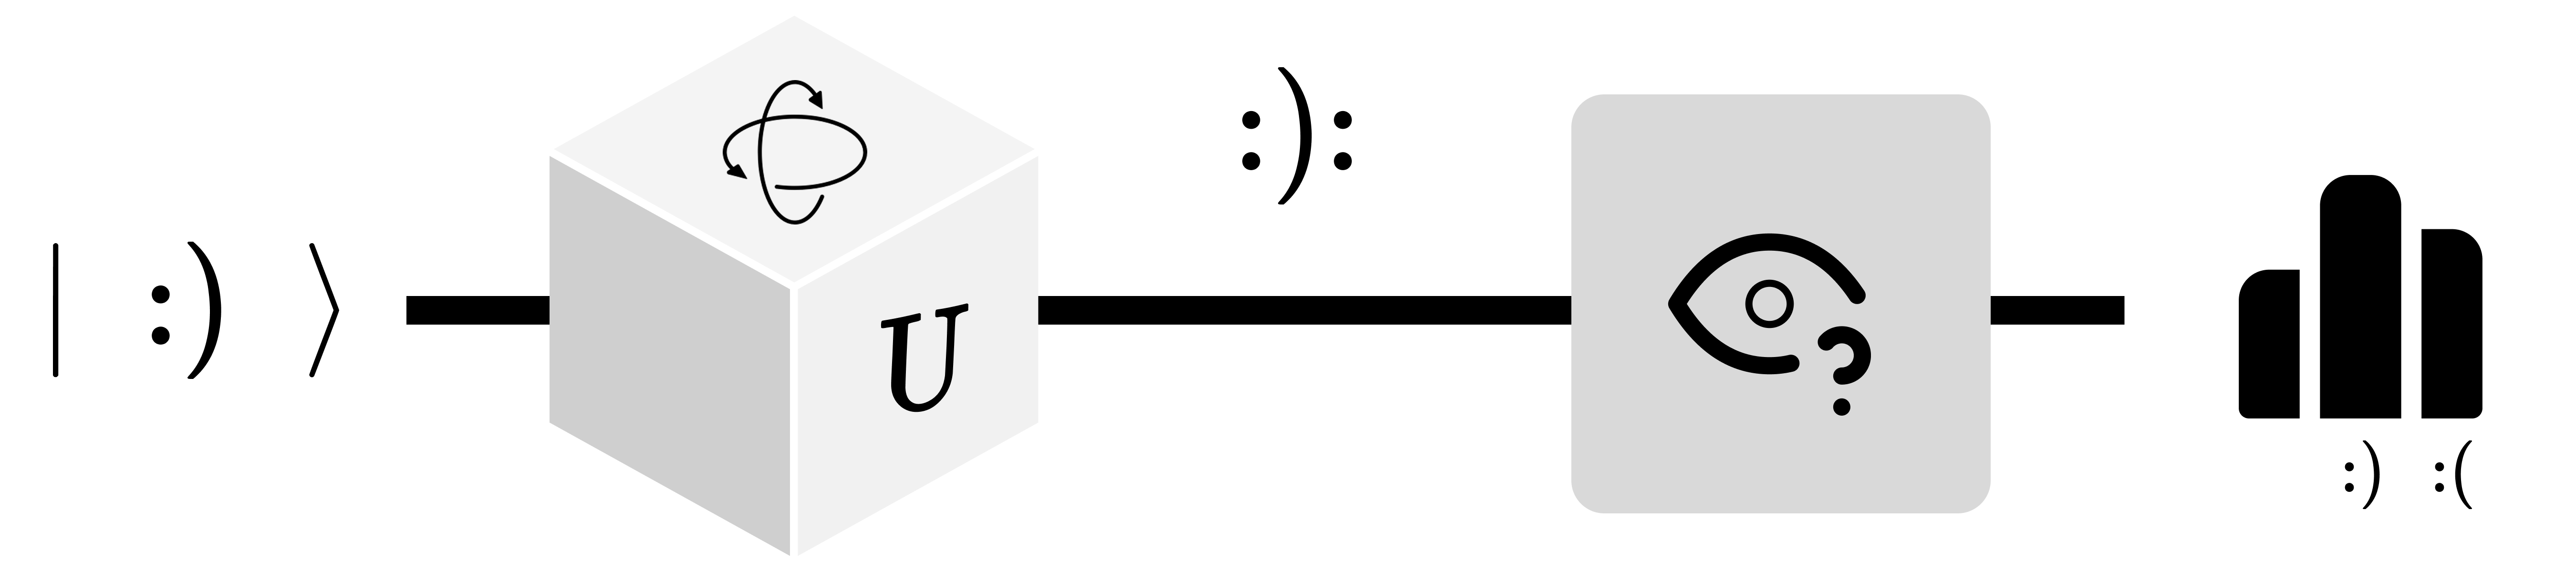
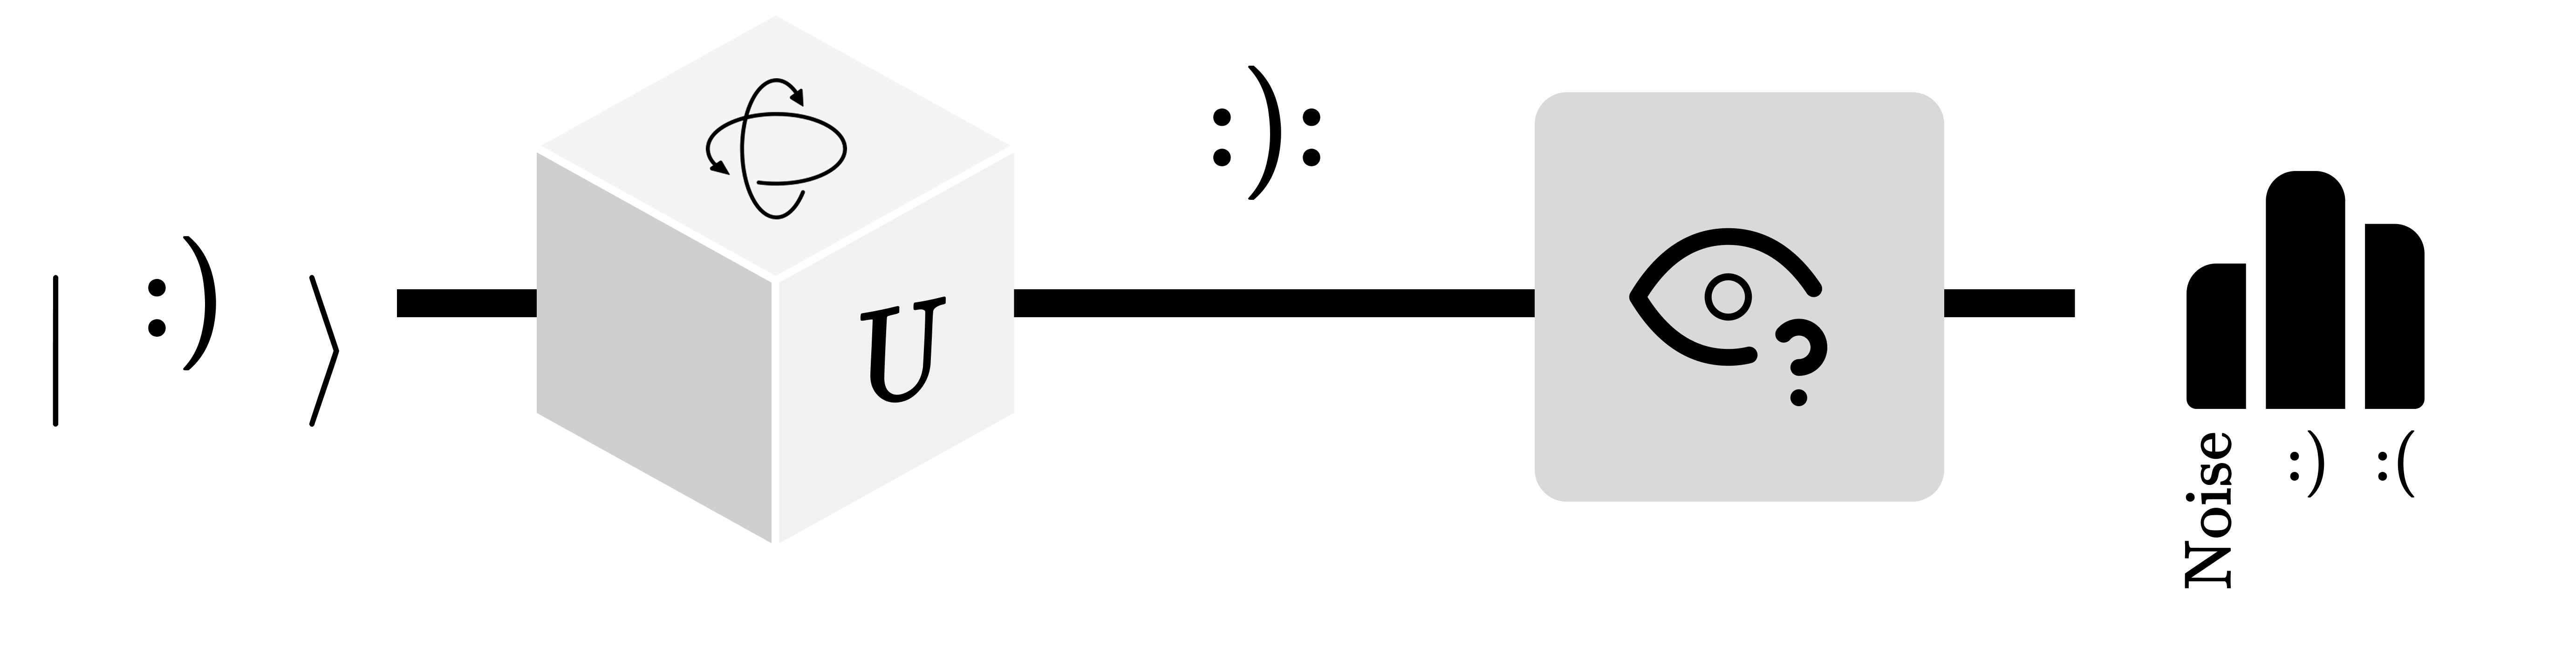
Add internship proposal document and update proposal slides
This commit introduces a new LaTeX document for the internship research proposal, detailing objectives related to the Differential Success Rate and a quantum algorithm monitoring dashboard. Additionally, the proposal slides are updated to include a hidden section on quantum computing, enhancing the overall presentation structure. The content in the slides is refined to reflect the inclusion of IonQ in the machine learning model validation. These changes aim to provide a comprehensive overview of the research objectives and improve the clarity of the presentation.

diff --git a/docs/slides/proposal/index.html b/docs/slides/proposal/index.html
@@ -54,7 +54,7 @@
 				<!-- SECTION 1: QUANTUM COMPUTING                                 -->
 				<!-- ============================================================ -->
 				<section data-section="Quick introduction" data-section-color="#6366f1" data-include="slides/01-qc/in-a-nutshell.html"></section>
-				<section data-section="Quick introduction" data-section-color="#6366f1" data-include="slides/01-qc/what-is-qc.html"></section>
+				<section data-section="Quick introduction" data-visibility="hidden" data-section-color="#6366f1" data-include="slides/01-qc/what-is-qc.html"></section>
 				<section data-section="Quick introduction" data-section-color="#6366f1" data-include="slides/01-qc/what-is-qc-impact.html"></section>
 
 				<!-- ============================================================ -->

diff --git a/docs/slides/proposal/slides/08-contributions/rho-answer.html b/docs/slides/proposal/slides/08-contributions/rho-answer.html
@@ -39,7 +39,7 @@
 		<div class="fragment card card-danger-soft" data-fragment-index="5" style="flex:1;">
 			<div class="card-header"><strong>Prediction System</strong></div>
 			<div class="card-body card-body-left">
-				<p style="margin:0;">ML models trained on footprint, validated on IBM + Rigetti.</p>
+				<p style="margin:0;">ML models trained on footprint, validated on IBM + Rigetti + IonQ.</p>
 			</div>
 		</div>
 	</div>

diff --git a/docs/papers/internship_proposal_cua.tex b/docs/papers/internship_proposal_cua.tex
@@ -1,0 +1,275 @@
+\documentclass[11pt]{article}
+
+\usepackage[margin=1in]{geometry}
+\usepackage{amsmath,amssymb,amsfonts}
+\usepackage{graphicx}
+\usepackage{hyperref}
+\usepackage{enumitem}
+\usepackage{booktabs}
+\usepackage{longtable}
+\usepackage{xcolor}
+\usepackage{titlesec}
+\usepackage{fancyhdr}
+\setlength{\headheight}{13.6pt}
+
+\pagestyle{fancy}
+\fancyhf{}
+\rhead{Internship Proposal -- CUA 2026}
+\lhead{Cristian Marquez}
+\cfoot{\thepage}
+
+\titleformat{\section}{\large\bfseries}{\thesection.}{0.5em}{}
+\titleformat{\subsection}{\normalsize\bfseries}{\thesubsection.}{0.5em}{}
+
+\title{%
+  \textbf{Internship Research Proposal}\\[0.3em]
+  \large Formalizing the Differential Success Rate as a Metric\\
+  and Building a Quantum Algorithm Monitoring Dashboard\\[1em]
+  \normalsize The Catholic University of America\\
+  Department of Computer Science
+}
+
+\author{
+  Cristian Marquez\\
+  \texttt{[email redacted]}\\[0.5em]
+  \textit{Advisor:} Daniel Sierra-Sosa, Ph.D.\\
+  \texttt{[email redacted]}
+}
+
+\date{June 29 -- November 14, 2026 \quad (16 active weeks; August recess)}
+
+\begin{document}
+\maketitle
+\thispagestyle{fancy}
+
+\clearpage
+
+\tableofcontents
+\newpage
+
+% ============================================================
+\section{Introduction and Motivation}
+% ============================================================
+
+Validating the correctness of quantum algorithm executions on noisy intermediate-scale quantum (NISQ) hardware is not yet solved. Unlike classical computing, where deterministic outputs allow one-to-one comparison, quantum executions produce probability distributions whose correctness must be assessed statistically.
+
+To address the distribution-level validation problem, our previous work introduced the \emph{Differential Success Rate} (DSR), a Michelson contrast-based score that quantifies how clearly expected outcomes stand out from the strongest peak in an observed histogram~\cite{dsrPaper2026}. We benchmarked DSR on 1,281 QPU jobs across Grover's search, the Quantum Fourier Transform (QFT), and a teleportation protocol variant, with executions on IBM Quantum Heron R2 and Rigetti Ankaa-3. These results showed that DSR provides a human interpretable numeric success indicator that complements existing fidelity metrics such as Hellinger fidelity (HF) and Total Variation Distance fidelity (TVDF).
+
+When we empirically validate DSR, it naturally opens the question of whether a formulation proposed as a practical \emph{score} can be formalized as a \emph{metric} in the mathematical sense. This question motivates the present internship, which has two objectives.
+\begin{enumerate}[label=(\arabic*)]
+  \item \label{obj:dsr-formalization} Investigate whether the DSR satisfies the axioms of a metric and, if necessary, refine the formulation. If the analysis concludes that no reformulation can satisfy metric axioms without sacrificing empirical sensitivity, the outcome of this objective is a formal characterization of DSR as a \emph{score} (i.e., a bounded indicator without metric-space structure), together with a precise statement of which properties it satisfies.
+  \item \label{obj:monitoring-dashboard} Build a monitoring dashboard that periodically executes quantum algorithms across providers and tracks quality indicators over time. In this case, the dashboard reports DSR as a lightweight score alongside formally established fidelity metrics (HF, TVDF) that do satisfy well-known mathematical properties.
+\end{enumerate}
+
+Together, Objectives~\ref{obj:dsr-formalization} and~\ref{obj:monitoring-dashboard} support both the theoretical basis and the practical monitoring framework for distribution-aware validation of quantum algorithm executions, while providing support for my PhD thesis. Importantly, the dashboard deliverable is independent of whether DSR achieves metric status: it serves as a longitudinal monitoring tool regardless of the theoretical outcome.
+
+% ============================================================
+\section{Background}
+% ============================================================
+
+\subsection{Current DSR Formulation}
+
+Given a histogram $\mathcal{C} : \{0,1\}^n \to \mathbb{Z}_{\geq 0}$ with total shots $S = \sum_x \mathcal{C}(x)$, the probability of each outcome is $p_x = \mathcal{C}(x)/S$. For a set of expected outcomes $E$ with $K = |E|$:
+
+\begin{align}
+  \bar{p}_{\text{exp}} &= \frac{1}{K} \sum_{x \in E} p_x \label{eq:pexp}\\
+  p_{\text{comp}} &= \max_{x \notin E} p_x \label{eq:pcomp}\\
+  \text{DSR} &= \text{clip}\!\left(\frac{\bar{p}_{\text{exp}} - p_{\text{comp}}}{\bar{p}_{\text{exp}} + p_{\text{comp}}},\; 0,\; 1\right) \label{eq:dsr}
+\end{align}
+
+The DSR returns a value in $[0, 1]$, where 1 indicates complete dominance of the expected states and 0 indicates that the expected states are indistinguishable from the noise floor.
+
+\subsection{Metric Axioms}
+
+A function $d: X \times X \to \mathbb{R}_{\geq 0}$ is a \emph{metric} if it satisfies the following:
+\begin{enumerate}[label=(\roman*)]
+  \item \textbf{Identity of indiscernibles}: $d(x, y) = 0 \iff x = y$
+  \item \textbf{Symmetry}: $d(x, y) = d(y, x)$
+  \item \textbf{Triangle inequality}: $d(x, z) \leq d(x, y) + d(y, z)$
+\end{enumerate}
+
+For structures weaker than a metric:
+\begin{itemize}
+  \item A \emph{pseudometric} relaxes (i): $d(x,y)=0$ does not imply $x=y$.
+  \item A \emph{divergence} (e.g., KL divergence) may lack symmetry and the triangle inequality but satisfies $D(p \| q) \geq 0$ with equality iff $p = q$.
+\end{itemize}
+
+The DSR in its current form is \emph{not symmetric} (it requires a designated set $E$) and may not satisfy the triangle inequality. During the internship, we will investigate to what mathematical structure DSR belongs to and whether a reformulation can promote it to a stronger structure while preserving its empirical properties.
+
+\subsection{Prior Publications}
+
+This internship builds on the following published and in-progress work.
+
+\begin{enumerate}
+  \item \textbf{CIbSE 2025}~\cite{cibse2025}: Quality concerns when integrating quantum and classical computing (systematic mapping study).
+  \item \textbf{CHILECON 2025}~\cite{qward2026}: qWard---a unified toolkit for pre- and post-runtime quantum circuit metrics.
+  \item \textbf{IEEE Access 2025}~\cite{vTPMarquez_2026}: A variant of the teleportation protocol for single-QPU benchmarking.
+  \item \textbf{IEEE Quantum Week 2026}~\cite{dsrPaper2026}: DSR---a distribution-aware score for validating quantum algorithm outputs (under review).
+\end{enumerate}
+
+% ============================================================
+\section{Research Objectives}
+% ============================================================
+
+\subsection{Objective 1: Theoretical Formalization of DSR}
+
+Determine whether the DSR can be formally defined as a metric, divergence, or related mathematical structure.
+
+\begin{enumerate}[label=O1.\arabic*]
+  \item Evaluate whether DSR satisfies the mathematical properties required of a metric, pseudometric, or divergence.
+  \item Develop formal proofs or provide counterexamples for each relevant mathematical property under consideration.
+  \item Investigate reformulations of DSR that could satisfy stronger mathematical properties while preserving the empirical sensitivity observed in previous experiments.
+  \item Empirically validate any reformulated version of DSR using the existing quantum execution dataset.
+  \item Characterize the relationship between DSR and existing fidelity, distance, and divergence measures, including Hellinger distance, total variation distance, and KL divergence.
+\end{enumerate}
+
+\subsection{Objective 2: Quantum Algorithm Monitoring Dashboard}
+
+Design and implement a web dashboard that tracks quantum algorithm performance across multiple providers over time.
+
+\begin{enumerate}[label=O2.\arabic*]
+  \item Automate periodic execution of selected quantum algorithms across multiple quantum computing providers and backends.
+  \item Compute and store relevant pre-runtime and post-runtime metrics for each execution batch, including fidelity-oriented metrics when applicable, together with execution metadata.
+  \item Build an interactive dashboard that visualizes longitudinal trends in quantum algorithm performance across providers, backends, and execution configurations.
+\end{enumerate}
+
+% ============================================================
+\section{Internship Plan}
+% ============================================================
+
+\subsection{Phase 1: DSR Theoretical Review (Weeks 1--8; Jun 29 -- Sep 26)}
+
+\begin{enumerate}
+  \item \textbf{Literature review} (Weeks 1--2): Survey metric theory, divergence measures, and contrast functions in information theory.
+
+  \item \textbf{Axiom analysis} (Weeks 3--5): For each metric axiom:
+  \begin{itemize}
+    \item Construct formal proofs where the DSR satisfies the axiom.
+    \item Construct counterexamples where it fails.
+  \end{itemize}
+
+  \item \textbf{Reformulation candidates} (Weeks 5--6): Propose alternative formulations that keep the key empirical properties of DSR and simultaneously satisfy stronger mathematical properties.
+  
+  \item \textbf{Empirical validation} (Weeks 6--8): Re-run the existing dataset through any reformulated DSR to verify that empirical properties are preserved. Compare discrimination power, threshold behavior, and correlation with HF/TVDF.
+
+  \item \textbf{Paper writing} (Weeks 7--8): Draft a paper formalizing the results.
+\end{enumerate}
+
+\subsection{Phase 2: Dashboard Development (Weeks 7--16; Sep 15 -- Nov 14)}
+
+\begin{enumerate}
+  \item \textbf{Architecture design} (Weeks 7--8): Define the dashboard system architecture:
+  \begin{itemize}
+    \item Identify the main system components required for execution scheduling, metric computation, data storage, and visualization.
+    \item Select the deployment stack.
+    \item Define the data model needed to store execution results, computed metrics, and execution metadata.
+    \item Specify the interfaces between the execution pipeline, metric computation module, storage layer, and dashboard frontend.
+  \end{itemize}
+
+  \item \textbf{Execution pipeline} (Weeks 9--11): Implement automated batch execution:
+  \begin{itemize}
+    \item Integrate with initial providers such as IBM Quantum and Rigetti.
+    \item Parameterize experiments by algorithm type, backend, qubit count, optimization level, and number of shots.
+    \item Implement error handling, retry logic, and cost tracking.
+  \end{itemize}
+
+  \item \textbf{Metric computation module} (Weeks 11--12): Extend qWard to support batch processing:
+  \begin{itemize}
+    \item Compute relevant pre-runtime and post-runtime metrics for each execution batch.
+    \item Store raw histograms, computed metrics, and execution metadata.
+    \item Support the reformulated DSR from Phase~1 along with the original formulation.
+  \end{itemize}
+
+  \item \textbf{Dashboard frontend} (Weeks 12--14): Build interactive visualizations:
+  \begin{itemize}
+    \item Time-series plots of selected performance and fidelity-oriented metrics.
+    \item Heatmaps across qubit counts, optimization levels, providers, and backends.
+    \item Provider and backend comparison views.
+  \end{itemize}
+
+  \item \textbf{Deployment} (Weeks 14--16): Documentation and deployment to a shared environment accessible to the research group.
+\end{enumerate}
+
+It is important to note that the overlap between theoretical work and dashboard implementation is intentional. The DSR analysis provides the conceptual basis for the study, while the dashboard development creates the infrastructure needed to compare and visualize results between providers over time. Table~\ref{tab:internship-timeline} summarizes the planned sequence of activities throughout the 16-week internship.
+
+\begin{table}[!ht]
+\centering
+\caption{16-week internship timeline (August recess between Weeks 5 and 6).}
+\label{tab:internship-timeline}
+\begin{tabular}{@{}cllp{6.5cm}@{}}
+\toprule
+\textbf{Week} & \textbf{Dates} & \textbf{Phase} & \textbf{Deliverable} \\
+\midrule
+1--2   & Jun 29 -- Jul 11  & Theory    & Literature review on metric theory and divergences \\
+3--5   & Jul 14 -- Aug 1   & Theory    & Axiom analysis: proofs and counterexamples for DSR \\
+\midrule
+\multicolumn{4}{c}{\textit{August recess (Aug 4 -- Aug 29)}} \\
+\midrule
+5--6   & Sep 1 -- Sep 12   & Theory    & Reformulation candidates with preserved properties \\
+6--8   & Sep 8 -- Sep 26   & Theory    & Empirical validation on existing dataset \\
+7--8   & Sep 15 -- Sep 26  & Both      & Paper draft (theory) + dashboard architecture design \\
+9--11  & Sep 29 -- Oct 17  & Dashboard & Batch execution pipeline (IBM + Rigetti) \\
+11--12 & Oct 13 -- Oct 24  & Dashboard & Metric computation module (DSR, HF, TVDF) \\
+12--14 & Oct 20 -- Nov 7   & Dashboard & Frontend visualization and interaction \\
+14--16 & Oct 27 -- Nov 14  & Dashboard & Testing, deployment, documentation \\
+16     & Nov 10 -- Nov 14  & Both      & Final report and presentation \\
+\bottomrule
+\end{tabular}
+\end{table}
+
+\subsection{Contingency: DSR Does Not Satisfy Metric Axioms}
+
+If theoretical analysis (Phase~1) concludes that DSR cannot be promoted to a metric without losing its threshold behavior and sensitivity properties, the internship proceeds as follows.
+
+\begin{enumerate}
+  \item \textbf{Formal characterization}: Document the axioms DSR satisfies and the ones it violates, with explicit counterexamples. Classify DSR within the taxonomy of statistical indicators (score, index, contrast function) and state the precise mathematical structure to which it belongs.
+  \item \textbf{Dashboard pivot}: The monitoring dashboard (Phase~2) uses DSR as a \emph{practical score} alongside formally established fidelity metrics, such as HF and TVDF, for cross-provider comparison.
+  \item \textbf{Paper scope adjustment}: The paper shifts toward presenting the monitoring dashboard as the main contribution, supported by the formal characterization of what DSR \emph{can} guarantee as a practical score.
+\end{enumerate}
+
+This contingency arrangement ensures that the internship maintains its productivity independent of the theoretical outcomes obtained. If DSR can be promoted to a metric, the project will deliver a stronger formal measure for quantum output validation. If it cannot, the project will still provide a rigorous characterization of DSR's limitations and a monitoring dashboard that uses DSR appropriately as a practical score alongside established fidelity measures.
+
+
+% ============================================================
+\section{Expected Deliverables}
+% ============================================================
+
+\begin{enumerate}
+  \item \textbf{Theoretical paper}: A manuscript formalizing DSR as a metric, with proofs, counterexamples, and empirical validation.
+  \item \textbf{Dashboard application}: A functional web application that:
+  \begin{itemize}
+    \item Executes selected quantum algorithms periodically across multiple providers and backends.
+    \item Computes and stores relevant pre-runtime and post-runtime metrics for each execution batch.
+    \item Displays longitudinal performance trends across providers, backends, and execution configurations.
+  \end{itemize}
+  \item \textbf{Extended qWard library}: Batch processing capabilities and any reformulated DSR integrated into the open-source qWard package.
+\end{enumerate}
+
+% ============================================================
+\section{Relevance to Doctoral Research}
+% ============================================================
+
+This internship directly contributes to QAQS (Quality-Aware Quantum Software) doctoral research by reinforcing the theoretical foundation of the post-runtime quality targets used in the prediction system. In particular, the formalization of DSR supports a more rigorous definition of how quantum algorithm executions are evaluated from their output.
+
+The dashboard component also contributes to the doctoral work by providing an infrastructure for continuous data collection between providers. The resulting periodically collected execution data can serve as a validation dataset for the circuit footprint characterization and predictive modeling framework, while contributing to the multi-paradigm, multi-provider open dataset proposed in the doctoral research.
+
+% ============================================================
+\bibliographystyle{IEEEtran}
+% Inline bibliography for self-contained document
+\begin{thebibliography}{10}
+
+\bibitem{qward2026}
+C.~Marquez, D.~Sierra-Sosa, and K.~Garc\'es, ``qWard: A unified toolkit for pre- and post-runtime quantum circuit metrics,'' in \emph{Proc. IEEE CHILECON}, 2025. DOI: 10.1109/CHILECON66915.2025.11476435.
+
+\bibitem{vTPMarquez_2026}
+C.~M\'arquez, D.~Sierra-Sosa, and K.~Garc\'es, ``A teleportation protocol variant for single-QPU benchmarking,'' \emph{IEEE Access}, vol.~13, 2025. DOI: 10.1109/ACCESS.2025.3639914.
+
+\bibitem{dsrPaper2026}
+C.~Marquez, D.~Sierra-Sosa, and K.~Garc\'es, ``Differential success rate (DSR): A distribution-aware score for validating quantum algorithm outputs,'' submitted to \emph{IEEE Quantum Week}, 2026.
+
+\bibitem{cibse2025}
+C.~Marquez, J.~Ojeda, and K.~Garc\'es, ``Quality concerns when integrating quantum and classical computing: A systematic mapping study,'' in \emph{Proc. CIbSE}, 2025. DOI: 10.5753/cibse.2025.35330.
+
+\end{thebibliography}
+
+\end{document}